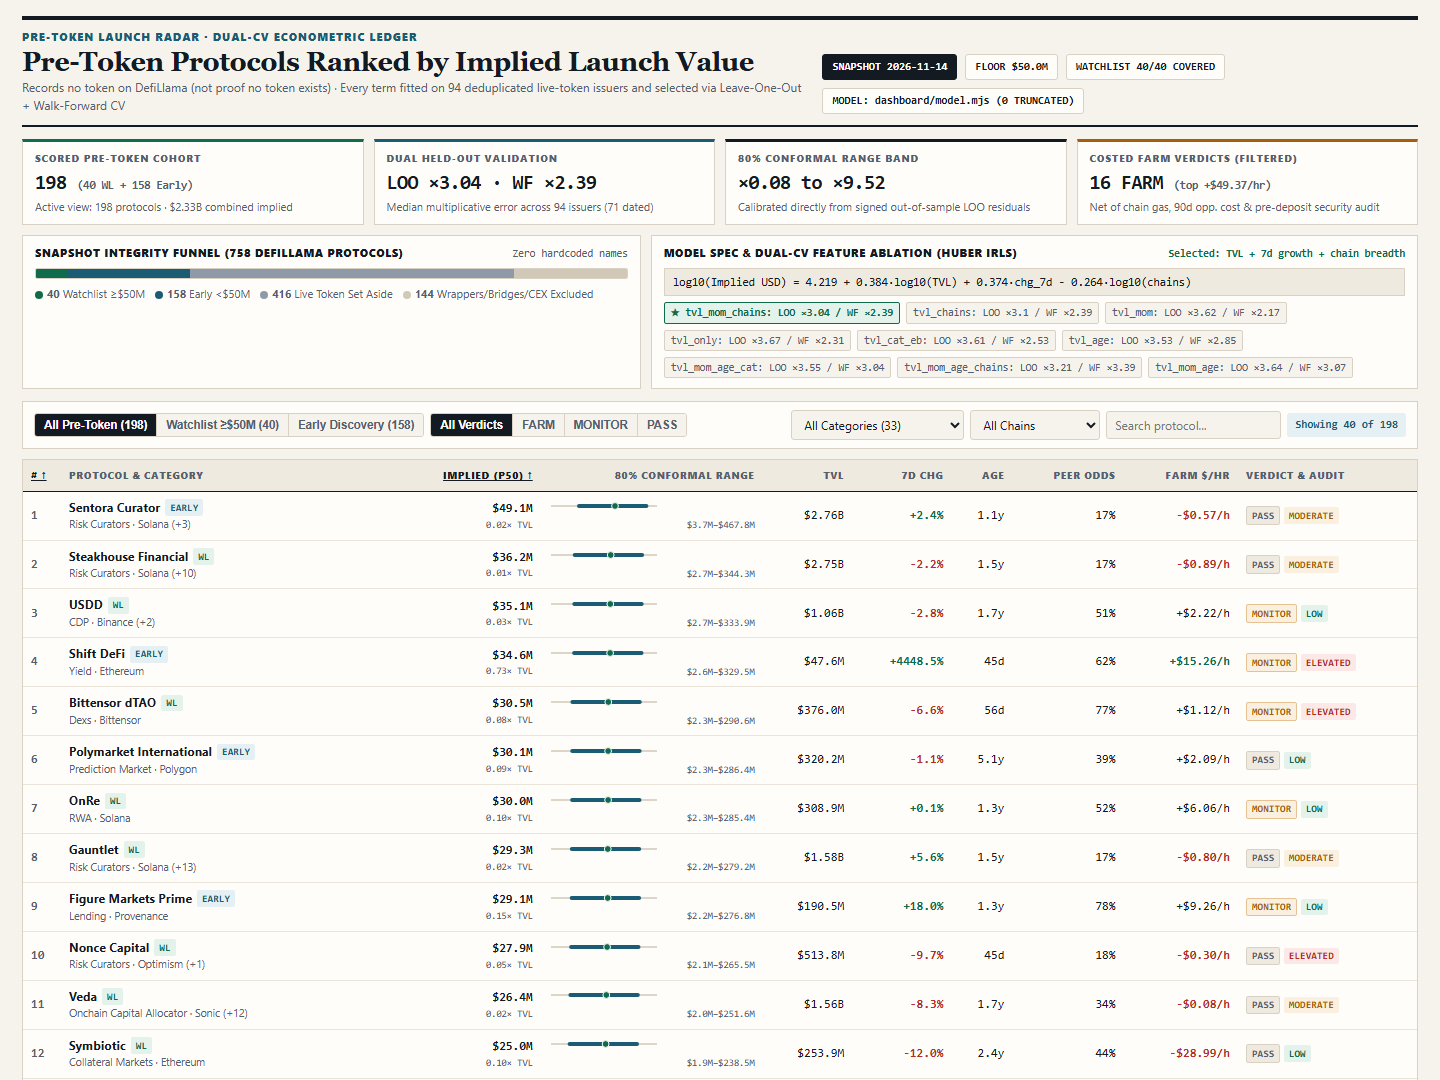
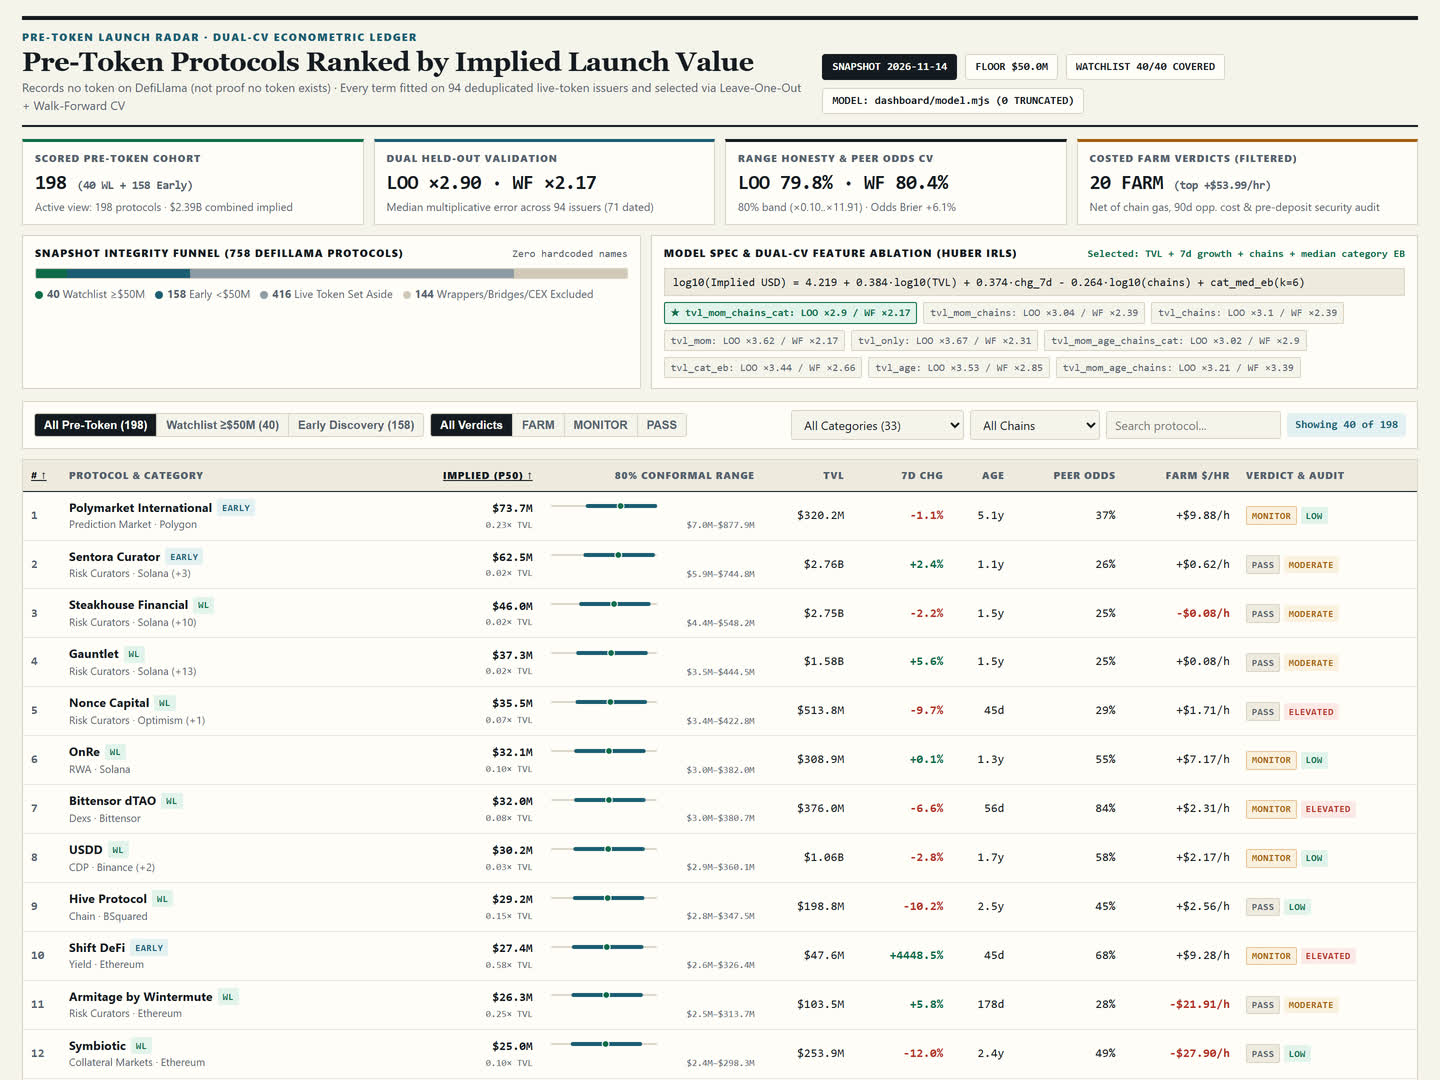
v4: median category EB (LOO x2.90 / WF x2.17), range honesty (79.8% / 80.4%), Bayes survival token odds, full 6-col comps

diff --git a/dashboard/app.js b/dashboard/app.js
@@ -136,12 +136,12 @@
           <div class="dm">
             <div class="dm-l">80% Conformal Range</div>
             <div class="dm-v">${fmtUsd(row.conformal_low_usd)}–${fmtUsd(row.conformal_high_usd)}</div>
-            <div class="dm-s">Empirical LOO p10–p90 band</div>
+            <div class="dm-s">Range honesty: LOO ${DATA.model.loo_cov80_pct}% · WF ${DATA.model.wf_cov80_pct}%</div>
           </div>
           <div class="dm">
-            <div class="dm-l">Peer Token Odds</div>
+            <div class="dm-l">Peer Token Odds (Bayes)</div>
             <div class="dm-v">${Math.round(row.peer_token_odds * 100)}%</div>
-            <div class="dm-s">${row.peer_tokened_count}/${row.peer_total_count} ${esc(row.category)} peers · EV ${fmtUsd(row.expected_launch_value_usd)}</div>
+            <div class="dm-s">${row.peer_tokened_count}/${row.peer_total_count} ${esc(row.category)} + tenure · EV ${fmtUsd(row.expected_launch_value_usd)}</div>
           </div>
         </div>
 
@@ -150,7 +150,7 @@
           <div class="dec-box"><span>TVL Power Base</span>${fmtUsd(row.factor_breakdown.base_usd)}</div>
           <div class="dec-box"><span>7d Momentum</span>×${row.factor_breakdown.momentum_mult.toFixed(2)} (${row.change_7d === null ? 'n/a' : `${row.change_7d >= 0 ? '+' : ''}${row.change_7d.toFixed(1)}%`})</div>
           <div class="dec-box"><span>Chain Breadth</span>×${row.factor_breakdown.chains_mult.toFixed(2)} (${row.chains.length} ch.)</div>
-          <div class="dec-box"><span>Tenure Term</span>${row.factor_breakdown.age_mult === 1 ? 'Dropped (WF CV)' : `×${row.factor_breakdown.age_mult.toFixed(2)}`}</div>
+          <div class="dec-box"><span>Category EB (k=6)</span>×${row.factor_breakdown.cat_mult.toFixed(2)} (${esc(row.category)})</div>
         </div>
 
         <div class="section-h">Costed Farm Verdict &amp; Execution Economics</div>
@@ -234,9 +234,9 @@
           <div class="kpi-sub">Median multiplicative error across ${c.calibration_issuers} issuers (${c.dated_calibration_issuers} dated)</div>
         </div>
         <div class="kpi">
-          <div class="kpi-label">80% Conformal Range Band</div>
-          <div class="kpi-val">×${m.conformal_p10_mult.toFixed(2)} to ×${m.conformal_p90_mult.toFixed(2)}</div>
-          <div class="kpi-sub">Calibrated directly from signed out-of-sample LOO residuals</div>
+          <div class="kpi-label">Range Honesty &amp; Peer Odds CV</div>
+          <div class="kpi-val">LOO ${m.loo_cov80_pct}% · WF ${m.wf_cov80_pct}%</div>
+          <div class="kpi-sub">80% band (×${m.conformal_p10_mult.toFixed(2)}..×${m.conformal_p90_mult.toFixed(2)}) · Odds Brier +${m.odds_brier_skill_pct}%</div>
         </div>
         <div class="kpi amber">
           <div class="kpi-label">Costed Farm Verdicts (Filtered)</div>

diff --git a/dashboard/app.css b/dashboard/app.css
@@ -279,12 +279,12 @@ input[type="search"] { width: 175px; }
 .workspace.has-detail {
   grid-template-columns: minmax(0, 1.08fr) minmax(520px, 1.02fr);
 }
-.workspace.has-detail table th:nth-child(4),
-.workspace.has-detail table td:nth-child(4),
-.workspace.has-detail table th:nth-child(6),
-.workspace.has-detail table td:nth-child(6),
-.workspace.has-detail table th:nth-child(7),
-.workspace.has-detail table td:nth-child(7) {
+.workspace.has-detail .table-wrap table th:nth-child(4),
+.workspace.has-detail .table-wrap table td:nth-child(4),
+.workspace.has-detail .table-wrap table th:nth-child(6),
+.workspace.has-detail .table-wrap table td:nth-child(6),
+.workspace.has-detail .table-wrap table th:nth-child(7),
+.workspace.has-detail .table-wrap table td:nth-child(7) {
   display: none;
 }
 
